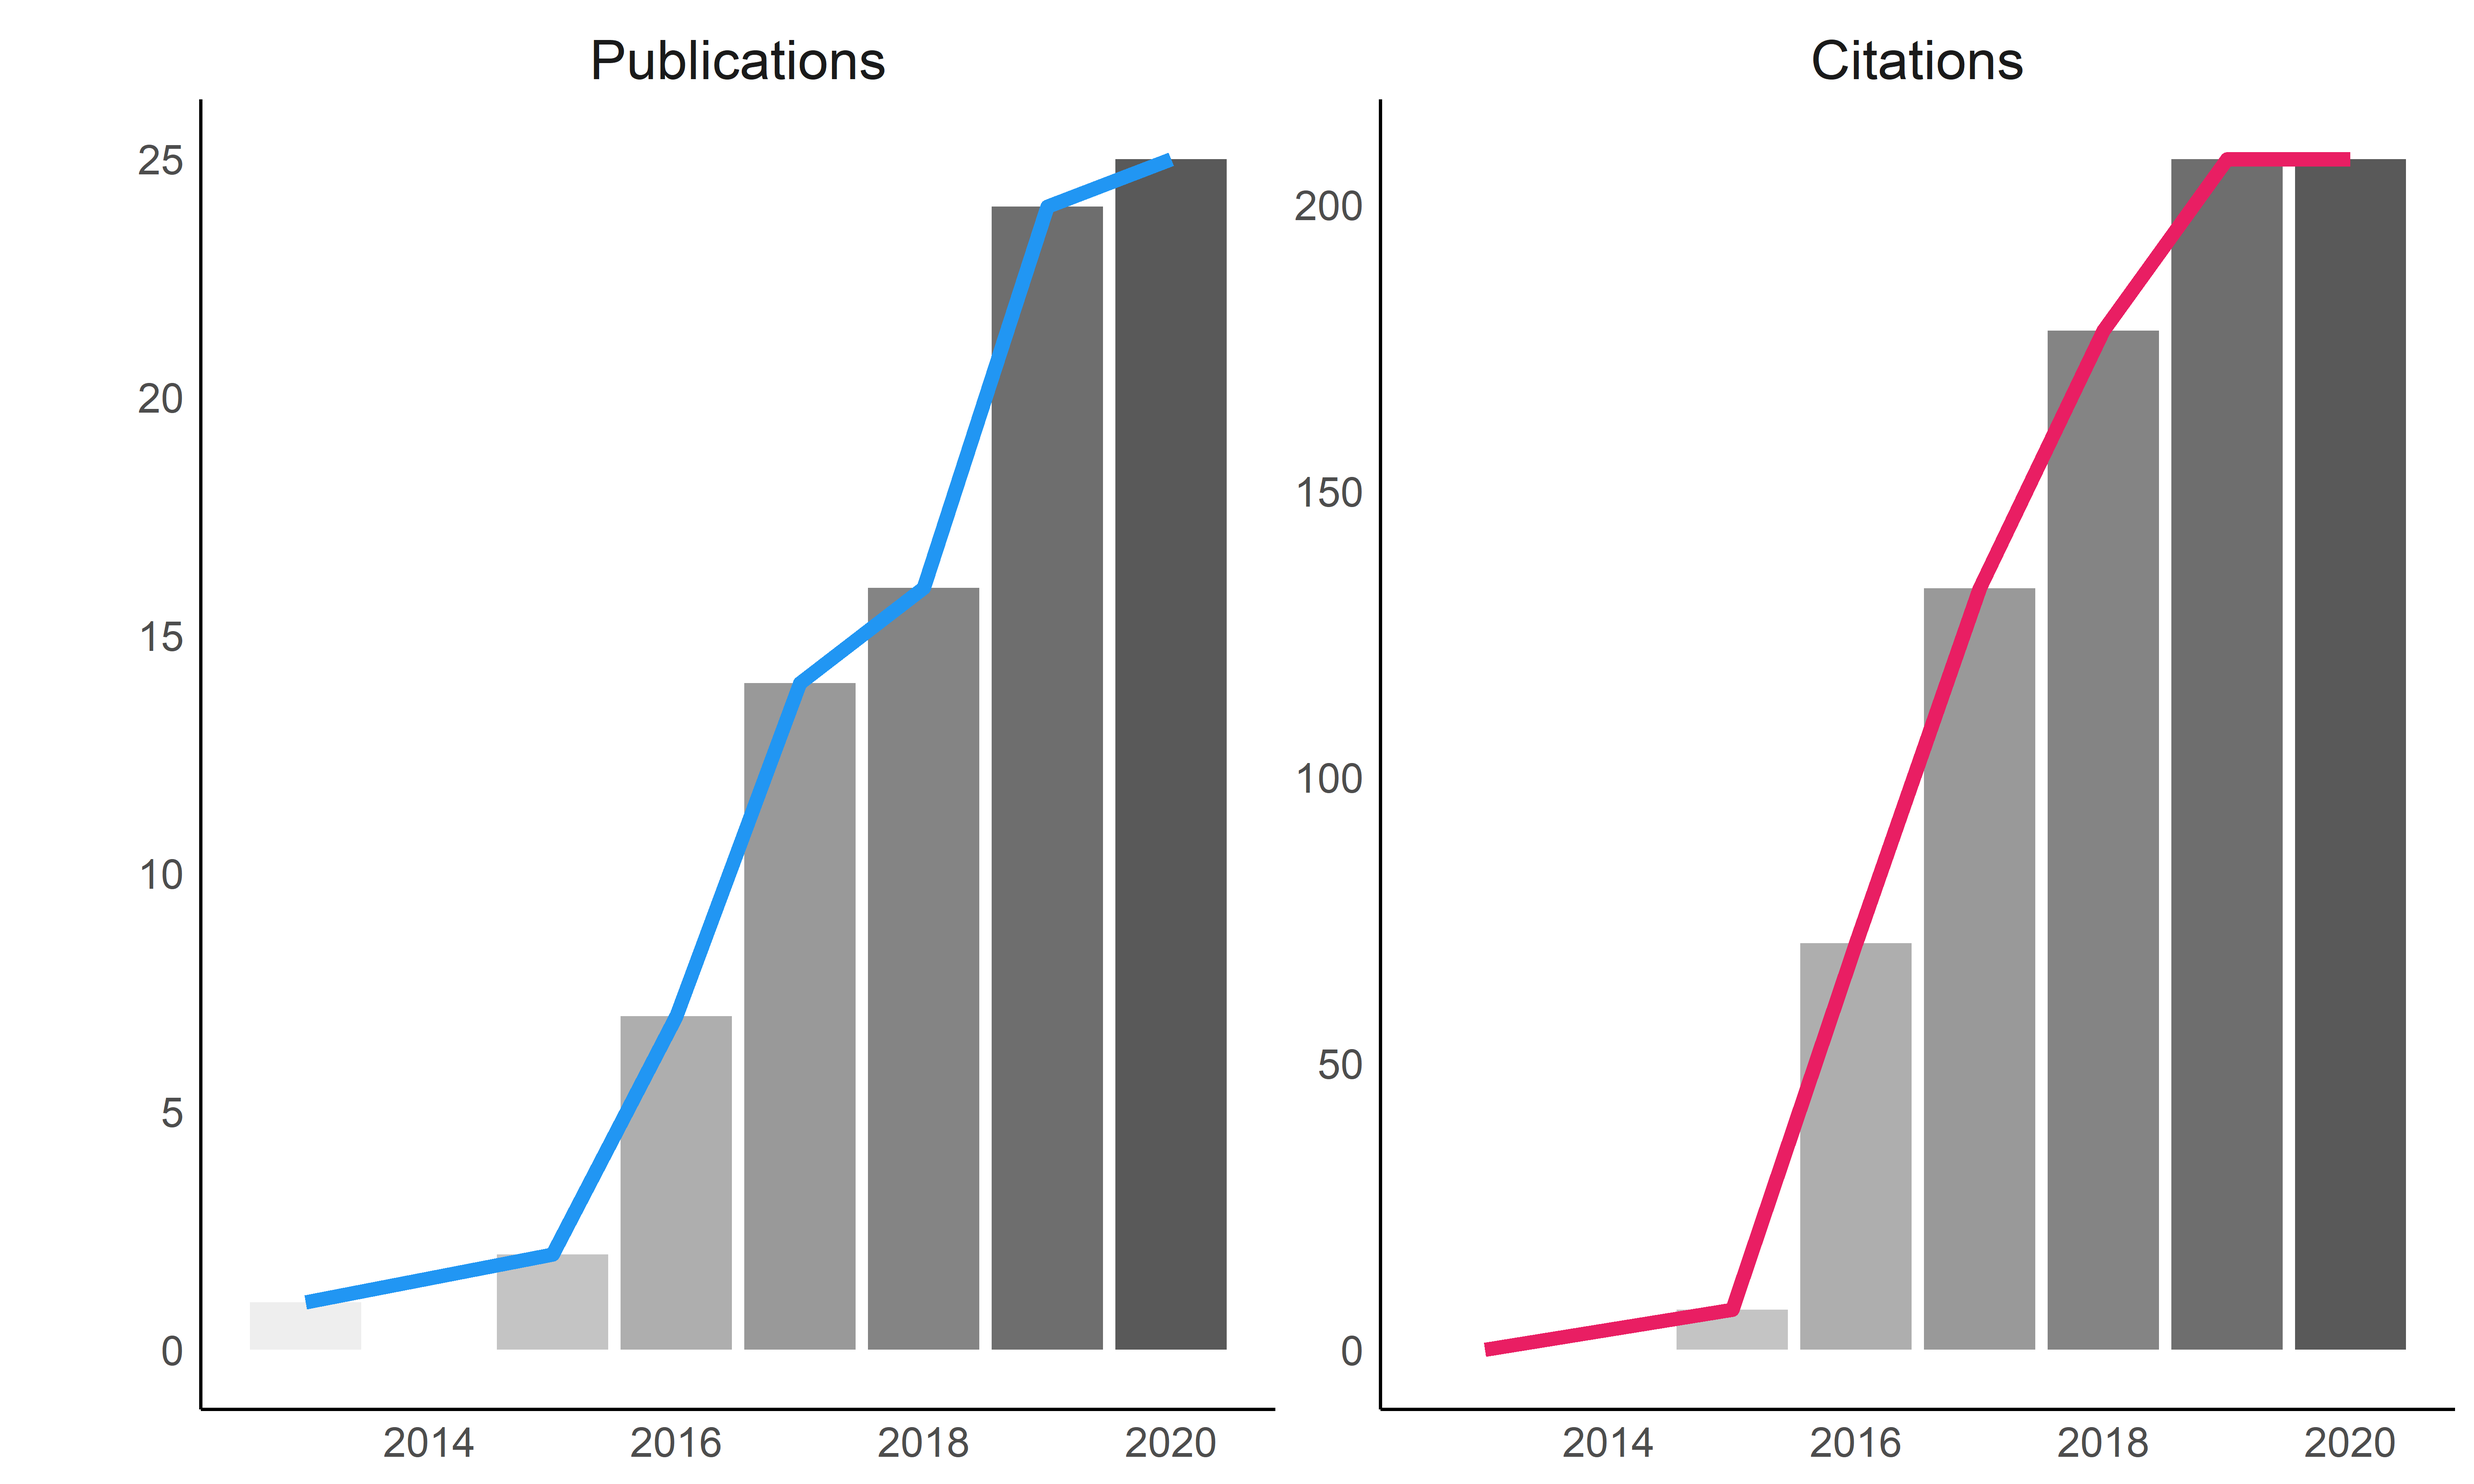
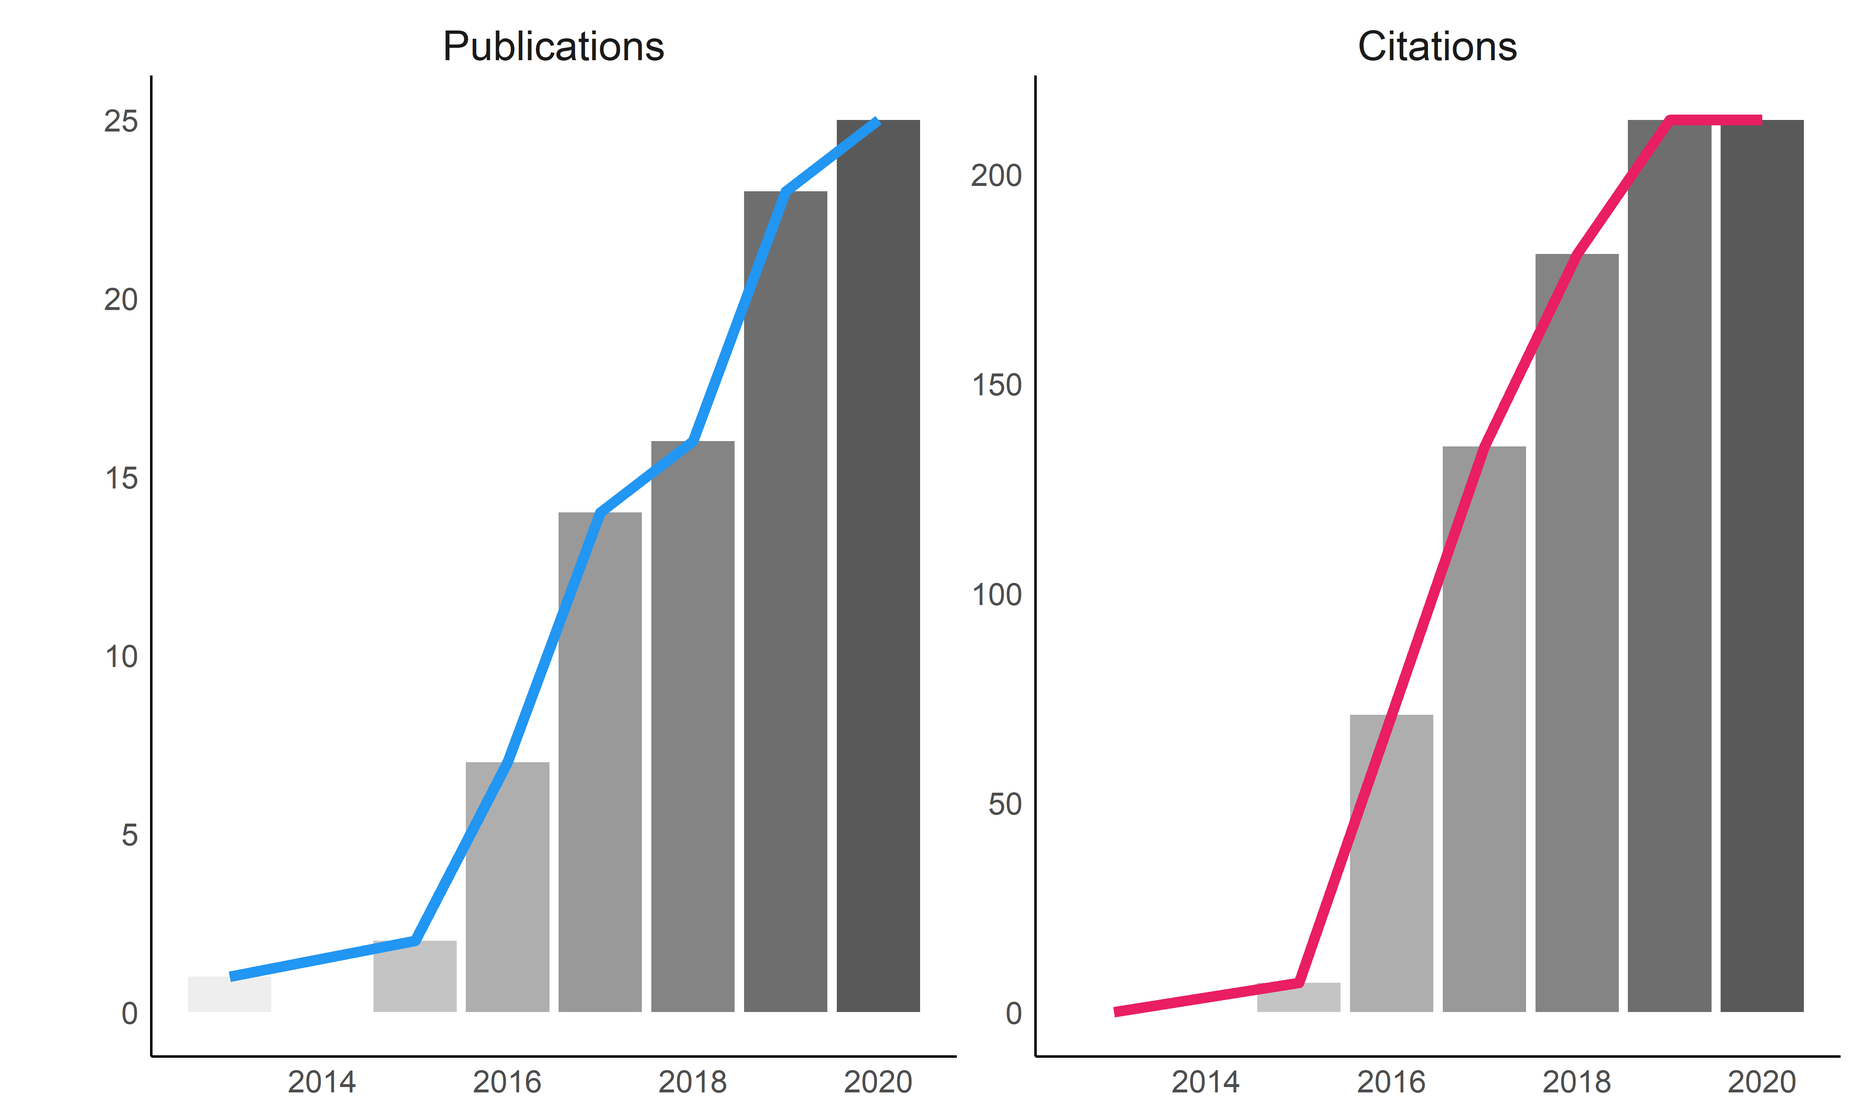
update

diff --git a/README.md b/README.md
@@ -1,12 +1,11 @@
 
-# Publications
+# Makowski’s Publications
+
+This repo contains materials and data related to my publications.
 
   - [**Personal Website**](https://dominiquemakowski.github.io/)
   - [**List of
     Communications**](https://github.com/DominiqueMakowski/publications#communications)
-
-This repo contains materials related to my publications (such as data
-and analysis scripts) to facilitate reproducibility and sharing.
 
 ## Research
 
@@ -19,12 +18,12 @@ papers:
 
 </p>
 
-## Scientific Impact <sub>*(retrieved on 25 March 2020)*</sub>
+## Scientific Impact <sub>*(retrieved on 16 April 2020)*</sub>
 
 | Metric                 | Score |
 | :--------------------- | ----: |
 | Number of Publications |    25 |
-| Number of Citations    |   206 |
+| Number of Citations    |   211 |
 | h-index                |     8 |
 | i10-index              |     8 |
 
@@ -55,7 +54,13 @@ co-authors without a scholar profile are not listed).
 **Makowski, D.**, Pham, T., Lau Z. J., Leow D., Raine A., & Chen, S. H.
 *(under review)*. [The Structure of Deception: Validation of the Lying
 Profile
-Questionnaire](https://dominiquemakowski.github.io/publication/makowski2019heart/makowski2020structure.pdf).
+Questionnaire](https://dominiquemakowski.github.io/publication/makowski2020structure/makowski2020structure.pdf).
+
+Girardeau, J. C., Blondé, P., **Makowski D.**, Abram, M., Piolino, P., &
+Sperduti, M. (2020). [The impact of state and dispositional mindfulness
+on prospective memory: A virtual reality
+study](https://dominiquemakowski.github.io/publication/girardeau2020impact/girardeau2020impact.pdf).
+*Consciousness and Cognition, 81*, 102920.
 
 <p align="center">
 
@@ -66,12 +71,12 @@ Questionnaire](https://dominiquemakowski.github.io/publication/makowski2019heart
 **Makowski, D.**, Sperduti, M., Lavallée, S., Nicolas, S., & Piolino, P.
 (2019). [Adaptation and Validation of a Short French Version of the
 Affective Style
-Questionnaire](https://dominiquemakowski.github.io/publication/makowski2019heart/makowski2019adaptation.pdf).
+Questionnaire](https://dominiquemakowski.github.io/publication/makowski2019adaptation/makowski2019adaptation.pdf).
 *International Journal of Cognitive Therapy*, 1-13.
 
 **Makowski, D.**, Ben-Shachar, M. S., Chen, S. H., & Lüdecke, D. (2019).
 [Indices of Effect Existence and Significance in the Bayesian
-Framework](https://dominiquemakowski.github.io/publication/makowski2019heart/makowski2019indices.pdf).
+Framework](https://dominiquemakowski.github.io/publication/makowski2019indices/makowski2019indices.pdf).
 *Frontiers in Psychology, 10*, 2767.
 
 **Makowski, D.**, Sperduti, M., Blondé, P., Nicolas, S., & Piolino, P.
